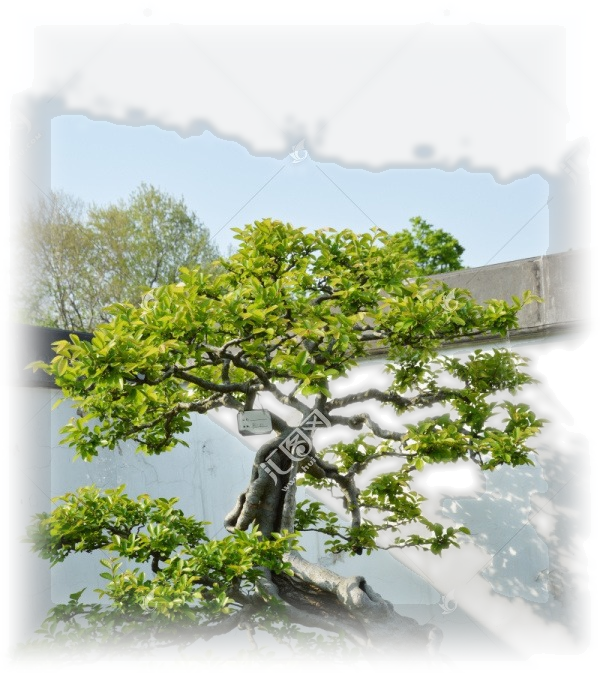
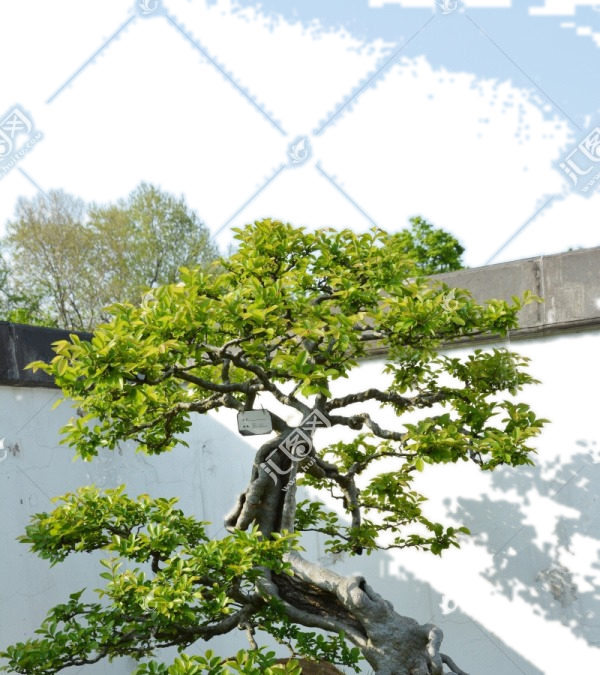
feat: hybrid cutouts — rembg AI + color-key for better tree isolation
Replace manual PIL cutouts with hybrid approach:
- rembg (u2net) AI for trees with clean backgrounds (HY0003,5,7,8,10)
- color-key removal for trees with white/complex backgrounds (HY0001,2,4,6,9)
Bump cache version to v6 to force regeneration on deploy.

diff --git a/apps/server/src/services/cutout-cache.service.ts b/apps/server/src/services/cutout-cache.service.ts
@@ -129,7 +129,8 @@ export async function prepareTreeCutoutsBackground(): Promise<void> {
   // v3: white-background source photos → cleaner BiRefNet segmentation
   // v4: rectangular edge-fade cutouts (replaces circular mask)
   // v5: sky-removal + stronger blur for outdoor tree photos
-  const CACHE_VERSION = 'v5';
+  // v6: hybrid cutouts — rembg AI for clean-bg trees + color-key for complex-bg trees
+  const CACHE_VERSION = 'v6';
   const versionFile = path.join(CUTOUTS_DIR, '.cache-version');
   const currentVersion = fs.existsSync(versionFile) ? fs.readFileSync(versionFile, 'utf-8').trim() : '';
   if (currentVersion !== CACHE_VERSION) {
